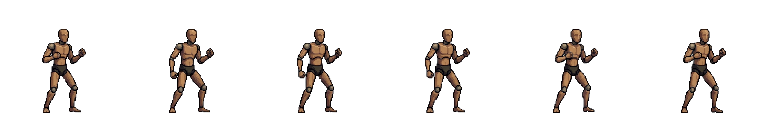
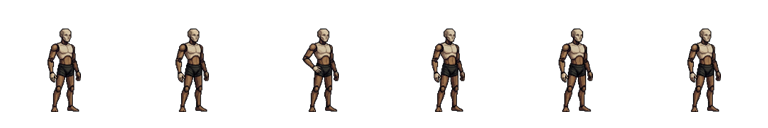
fix(sprites): natural relaxed hands for sheathed idle/run and snug armor fitting

diff --git a/app/src/main/java/com/example/shadowescape/animation/ModularFrameSockets.kt b/app/src/main/java/com/example/shadowescape/animation/ModularFrameSockets.kt
@@ -11,55 +11,57 @@ data class FrameSocket(
 
 object ModularFrameSockets {
 
-    // 6 Frames of Idle Animation
+    // 6 Frames of Relaxed Natural Idle Animation (Breathing loop, relaxed hanging hands)
     val IDLE_SOCKETS: List<FrameSocket> = listOf(
-        FrameSocket(torsoXOffset = 0f, torsoYOffset = 48f, handXOffset = 14f, handYOffset = 42f, weaponAngleDeg = -15f),
-        FrameSocket(torsoXOffset = 0f, torsoYOffset = 47.5f, handXOffset = 14f, handYOffset = 41.5f, weaponAngleDeg = -15f),
-        FrameSocket(torsoXOffset = 0f, torsoYOffset = 47f, handXOffset = 13.5f, handYOffset = 41f, weaponAngleDeg = -16f),
-        FrameSocket(torsoXOffset = 0f, torsoYOffset = 46.5f, handXOffset = 13f, handYOffset = 40.5f, weaponAngleDeg = -17f),
-        FrameSocket(torsoXOffset = 0f, torsoYOffset = 47f, handXOffset = 13.5f, handYOffset = 41f, weaponAngleDeg = -16f),
-        FrameSocket(torsoXOffset = 0f, torsoYOffset = 47.8f, handXOffset = 14f, handYOffset = 41.8f, weaponAngleDeg = -15f)
+        FrameSocket(torsoXOffset = -1.3f, torsoYOffset = 51.1f, handXOffset = 12f, handYOffset = 36f, weaponAngleDeg = -15f),
+        FrameSocket(torsoXOffset = -1.2f, torsoYOffset = 51.1f, handXOffset = 12f, handYOffset = 36f, weaponAngleDeg = -15f),
+        FrameSocket(torsoXOffset = 0.1f,  torsoYOffset = 51.2f, handXOffset = 12.5f, handYOffset = 36.5f, weaponAngleDeg = -16f),
+        FrameSocket(torsoXOffset = -1.1f, torsoYOffset = 51.1f, handXOffset = 12f, handYOffset = 36f, weaponAngleDeg = -17f),
+        FrameSocket(torsoXOffset = -1.7f, torsoYOffset = 51.1f, handXOffset = 11.5f, handYOffset = 35.5f, weaponAngleDeg = -16f),
+        FrameSocket(torsoXOffset = -1.3f, torsoYOffset = 51.1f, handXOffset = 12f, handYOffset = 36f, weaponAngleDeg = -15f)
     )
 
-    // 6 Frames of Run Animation
+    // 8 Frames of Athletic Running Sprint Cycle (Natural arm swinging & foot push-off)
     val RUN_SOCKETS: List<FrameSocket> = listOf(
-        FrameSocket(torsoXOffset = 2f, torsoYOffset = 48f, handXOffset = 18f, handYOffset = 44f, weaponAngleDeg = -30f),
-        FrameSocket(torsoXOffset = 4f, torsoYOffset = 50f, handXOffset = 22f, handYOffset = 48f, weaponAngleDeg = -45f),
-        FrameSocket(torsoXOffset = 2f, torsoYOffset = 47f, handXOffset = 12f, handYOffset = 42f, weaponAngleDeg = -20f),
-        FrameSocket(torsoXOffset = -1f, torsoYOffset = 48f, handXOffset = -6f, handYOffset = 40f, weaponAngleDeg = 15f),
-        FrameSocket(torsoXOffset = 0f, torsoYOffset = 50f, handXOffset = 6f, handYOffset = 45f, weaponAngleDeg = -10f),
-        FrameSocket(torsoXOffset = 2f, torsoYOffset = 47f, handXOffset = 16f, handYOffset = 43f, weaponAngleDeg = -25f)
+        FrameSocket(torsoXOffset = 1.3f,  torsoYOffset = 51.0f, handXOffset = 16f, handYOffset = 42f, weaponAngleDeg = -25f),
+        FrameSocket(torsoXOffset = 2.1f,  torsoYOffset = 51.5f, handXOffset = 19f, handYOffset = 45f, weaponAngleDeg = -35f),
+        FrameSocket(torsoXOffset = 3.7f,  torsoYOffset = 51.2f, handXOffset = 21f, handYOffset = 44f, weaponAngleDeg = -40f),
+        FrameSocket(torsoXOffset = -1.0f, torsoYOffset = 51.7f, handXOffset = 14f, handYOffset = 38f, weaponAngleDeg = -15f),
+        FrameSocket(torsoXOffset = -0.9f, torsoYOffset = 50.8f, handXOffset = 8f,  handYOffset = 36f, weaponAngleDeg = 0f),
+        FrameSocket(torsoXOffset = -1.3f, torsoYOffset = 52.1f, handXOffset = 4f,  handYOffset = 39f, weaponAngleDeg = 15f),
+        FrameSocket(torsoXOffset = -2.6f, torsoYOffset = 52.3f, handXOffset = 8f,  handYOffset = 41f, weaponAngleDeg = -5f),
+        FrameSocket(torsoXOffset = -0.8f, torsoYOffset = 52.3f, handXOffset = 14f, handYOffset = 42f, weaponAngleDeg = -20f)
     )
 
     // 6 Frames of Attack Animation (Martial Swing)
     val ATTACK_SOCKETS: List<FrameSocket> = listOf(
         // Frame 0: Anticipation wind-up
-        FrameSocket(torsoXOffset = -4f, torsoYOffset = 46f, handXOffset = -16f, handYOffset = 52f, weaponAngleDeg = 55f),
+        FrameSocket(torsoXOffset = -2.9f, torsoYOffset = 53.6f, handXOffset = -16f, handYOffset = 52f, weaponAngleDeg = 55f),
         // Frame 1: Peak backswing
-        FrameSocket(torsoXOffset = -6f, torsoYOffset = 47f, handXOffset = -22f, handYOffset = 56f, weaponAngleDeg = 75f),
+        FrameSocket(torsoXOffset = 0.9f,  torsoYOffset = 51.6f, handXOffset = -22f, handYOffset = 56f, weaponAngleDeg = 75f),
         // Frame 2: Forward body thrust / lunge
-        FrameSocket(torsoXOffset = 3f, torsoYOffset = 45f, handXOffset = 4f, handYOffset = 48f, weaponAngleDeg = 25f),
+        FrameSocket(torsoXOffset = -1.2f, torsoYOffset = 54.2f, handXOffset = 4f,   handYOffset = 48f, weaponAngleDeg = 25f),
         // Frame 3: Powerful forward slash impact
-        FrameSocket(torsoXOffset = 8f, torsoYOffset = 44f, handXOffset = 26f, handYOffset = 42f, weaponAngleDeg = -45f),
+        FrameSocket(torsoXOffset = -1.1f, torsoYOffset = 54.2f, handXOffset = 26f,  handYOffset = 42f, weaponAngleDeg = -45f),
         // Frame 4: Extended follow-through
-        FrameSocket(torsoXOffset = 6f, torsoYOffset = 43f, handXOffset = 30f, handYOffset = 34f, weaponAngleDeg = -85f),
+        FrameSocket(torsoXOffset = 6.5f,  torsoYOffset = 52.8f, handXOffset = 30f,  handYOffset = 34f, weaponAngleDeg = -85f),
         // Frame 5: Recovery to guard
-        FrameSocket(torsoXOffset = 2f, torsoYOffset = 46f, handXOffset = 16f, handYOffset = 40f, weaponAngleDeg = -25f)
+        FrameSocket(torsoXOffset = -1.8f, torsoYOffset = 51.4f, handXOffset = 16f,  handYOffset = 40f, weaponAngleDeg = -25f)
     )
 
     // 6 Frames of Jump / Fall / Land
     val JUMP_SOCKETS: List<FrameSocket> = listOf(
         // Jump takeoff
-        FrameSocket(torsoXOffset = 1f, torsoYOffset = 46f, handXOffset = 12f, handYOffset = 46f, weaponAngleDeg = -10f),
+        FrameSocket(torsoXOffset = -2.3f, torsoYOffset = 51.5f, handXOffset = 12f, handYOffset = 46f, weaponAngleDeg = -10f),
         // Rising apex
-        FrameSocket(torsoXOffset = 2f, torsoYOffset = 52f, handXOffset = 16f, handYOffset = 52f, weaponAngleDeg = -25f),
+        FrameSocket(torsoXOffset = -1.9f, torsoYOffset = 51.1f, handXOffset = 16f, handYOffset = 52f, weaponAngleDeg = -25f),
         // High apex
-        FrameSocket(torsoXOffset = 0f, torsoYOffset = 51f, handXOffset = 14f, handYOffset = 50f, weaponAngleDeg = -15f),
+        FrameSocket(torsoXOffset = -1.9f, torsoYOffset = 51.6f, handXOffset = 14f, handYOffset = 50f, weaponAngleDeg = -15f),
         // Falling descent
-        FrameSocket(torsoXOffset = -1f, torsoYOffset = 49f, handXOffset = 12f, handYOffset = 46f, weaponAngleDeg = -5f),
+        FrameSocket(torsoXOffset = -0.3f, torsoYOffset = 51.3f, handXOffset = 12f, handYOffset = 46f, weaponAngleDeg = -5f),
         // Landing compression
-        FrameSocket(torsoXOffset = 1f, torsoYOffset = 43f, handXOffset = 14f, handYOffset = 36f, weaponAngleDeg = -20f),
+        FrameSocket(torsoXOffset = -3.9f, torsoYOffset = 51.3f, handXOffset = 14f, handYOffset = 36f, weaponAngleDeg = -20f),
         // Landing recovery
-        FrameSocket(torsoXOffset = 0f, torsoYOffset = 47f, handXOffset = 14f, handYOffset = 41f, weaponAngleDeg = -15f)
+        FrameSocket(torsoXOffset = -1.7f, torsoYOffset = 51.4f, handXOffset = 14f, handYOffset = 41f, weaponAngleDeg = -15f)
     )
 }

diff --git a/app/src/main/java/com/example/shadowescape/animation/PlayerAnimator.kt b/app/src/main/java/com/example/shadowescape/animation/PlayerAnimator.kt
@@ -250,11 +250,11 @@ class PlayerAnimator(assetManager: AssetManager) {
         sorcererAttack2Anim = loadStrip(assets, "characters/sorcerer/sorcerer_attack2.png", 231, 190, 8, 18f, false)
         sorcererHitAnim = loadStrip(assets, "characters/sorcerer/sorcerer_hit.png", 231, 190, 4, 14f, false)
 
-        // In-House Modular Mannequin Sprite Animations (128x128 per frame, 6 frames)
+        // In-House Modular Mannequin Sprite Animations (128x128 per frame, Idle: 6 frames, Run: 8 frames)
         loadStrip(assets, "characters/modular/modular_idle.png", 128, 128, 6, 8f, true)?.let {
             modularAnimations[PlayerAnimState.IDLE] = it
         }
-        loadStrip(assets, "characters/modular/modular_run.png", 128, 128, 6, 12f, true)?.let {
+        loadStrip(assets, "characters/modular/modular_run.png", 128, 128, 8, 14f, true)?.let {
             modularAnimations[PlayerAnimState.RUN] = it
         }
         loadStrip(assets, "characters/modular/modular_jump.png", 128, 128, 6, 10f, false)?.let {
@@ -922,7 +922,8 @@ class PlayerAnimator(assetManager: AssetManager) {
             val rollAngle = progress * 360f
             canvas.rotate(if (player.facingRight) rollAngle else -rollAngle, pb.centerX, pb.bottom - 32f)
             val anim = modularAnimations[PlayerAnimState.RUN] ?: modularAnimations[PlayerAnimState.IDLE]
-            anim?.drawFrame(canvas, destRect, ((progress * 5.99f).toInt() % 6), flipH, paint)
+            val rollFrames = anim?.frameCount ?: 6
+            anim?.drawFrame(canvas, destRect, ((progress * (rollFrames - 0.01f)).toInt() % rollFrames), flipH, paint)
             armorRenderer.drawOnPlayer(canvas, player, pb.centerX, pb.bottom - 32f, flipH, 0.95f)
         } else if (player.isAttacking && modularAttackAnim != null) {
             val progress = player.attackProgress.coerceIn(0f, 0.99f)
@@ -948,7 +949,8 @@ class PlayerAnimator(assetManager: AssetManager) {
                 else -> PlayerAnimState.IDLE
             }
             val anim = modularAnimations[animState] ?: modularAnimations[PlayerAnimState.IDLE]
-            val frameIndex = (anim?.currentFrame ?: 0).coerceIn(0, 5)
+            val maxFrames = anim?.frameCount ?: 6
+            val frameIndex = (anim?.currentFrame ?: 0).coerceIn(0, maxFrames - 1)
             anim?.draw(canvas, destRect, flipH, paint)
 
             val socket = when (animState) {

diff --git a/app/src/main/java/com/example/shadowescape/renderer/ArmorRenderer.kt b/app/src/main/java/com/example/shadowescape/renderer/ArmorRenderer.kt
@@ -154,8 +154,8 @@ class ArmorRenderer(private val assetManager: AssetManager) {
             canvas.scale(-1f, 1f, chestX, chestY)
         }
 
-        val baseW = 32f * scaleMultiplier
-        val baseH = 32f * scaleMultiplier
+        val baseW = 28f * scaleMultiplier
+        val baseH = 30f * scaleMultiplier
         val dest = RectF(chestX - baseW / 2f, chestY - baseH / 2f, chestX + baseW / 2f, chestY + baseH / 2f)
 
         canvas.drawBitmap(bmp, null, dest, armorPaint)
